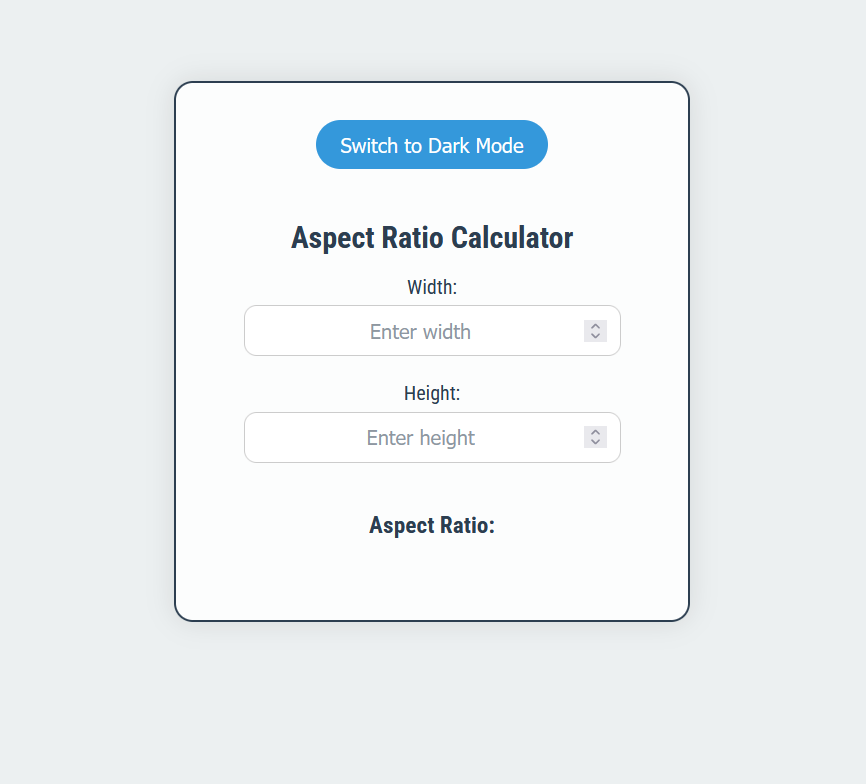
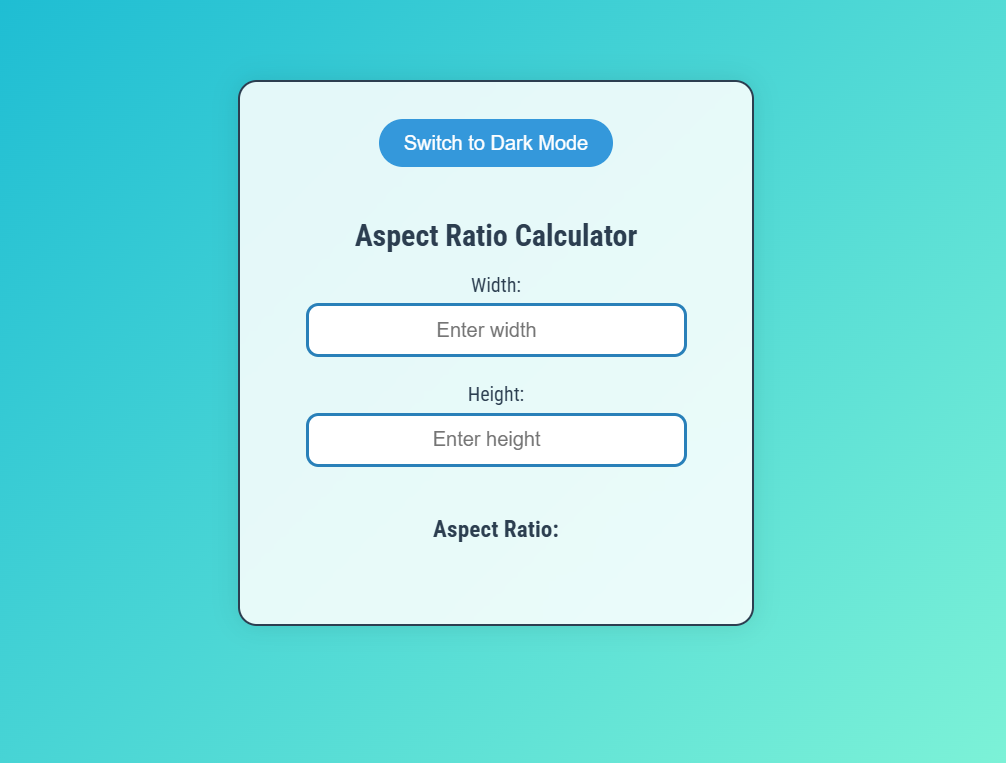
Updated style.css

diff --git a/Calculators/Aspect-Ratio-Calculator/style.css b/Calculators/Aspect-Ratio-Calculator/style.css
@@ -11,12 +11,12 @@ body {
 }
 
 body.dark-mode {
-    background: #2c3e50;
+    background: linear-gradient(135deg, #028391, #01204E);
     color: #ecf0f1;
 }
 
 body.light-mode {
-    background: #ecf0f1;
+    background: linear-gradient(135deg, #03AED2, #94FFD8);
     color: #2c3e50;
 }
 
@@ -91,9 +91,11 @@ body.light-mode .calculator {
 body.dark-mode input {
     background: #34495e;
     color: #ecf0f1;
+    border: 3px solid #2980b9;
 }
 
 body.light-mode input {
     background: #ffffff;
     color: #2c3e50;
+    border: 3px solid #2980b9;
 }
